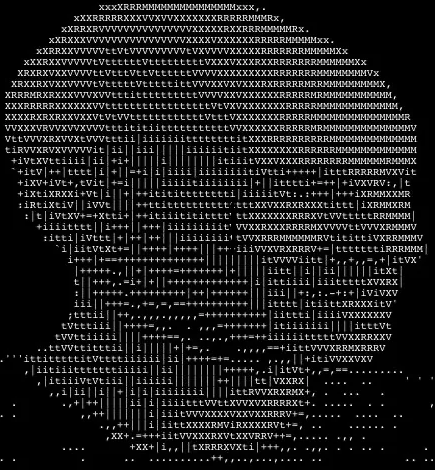
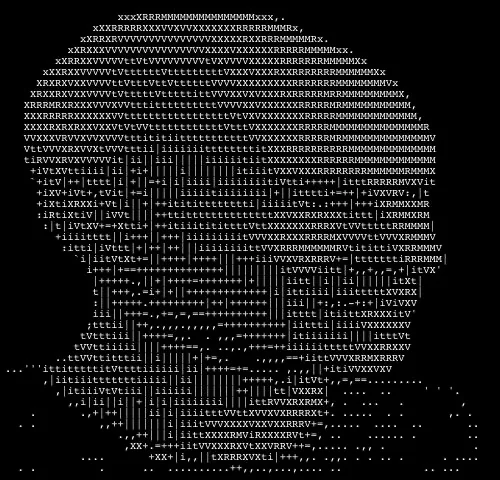
Resized the cypic.png image

diff --git a/image-folder/image.py b/image-folder/image.py
@@ -2,7 +2,7 @@ from PIL import Image, ImageFilter
 
 img = Image.open('cypic.webp')
 
-img.resize((500, 300))
+img.resize((300, 300))
 
 
 img.save('cypic.png', 'png')
